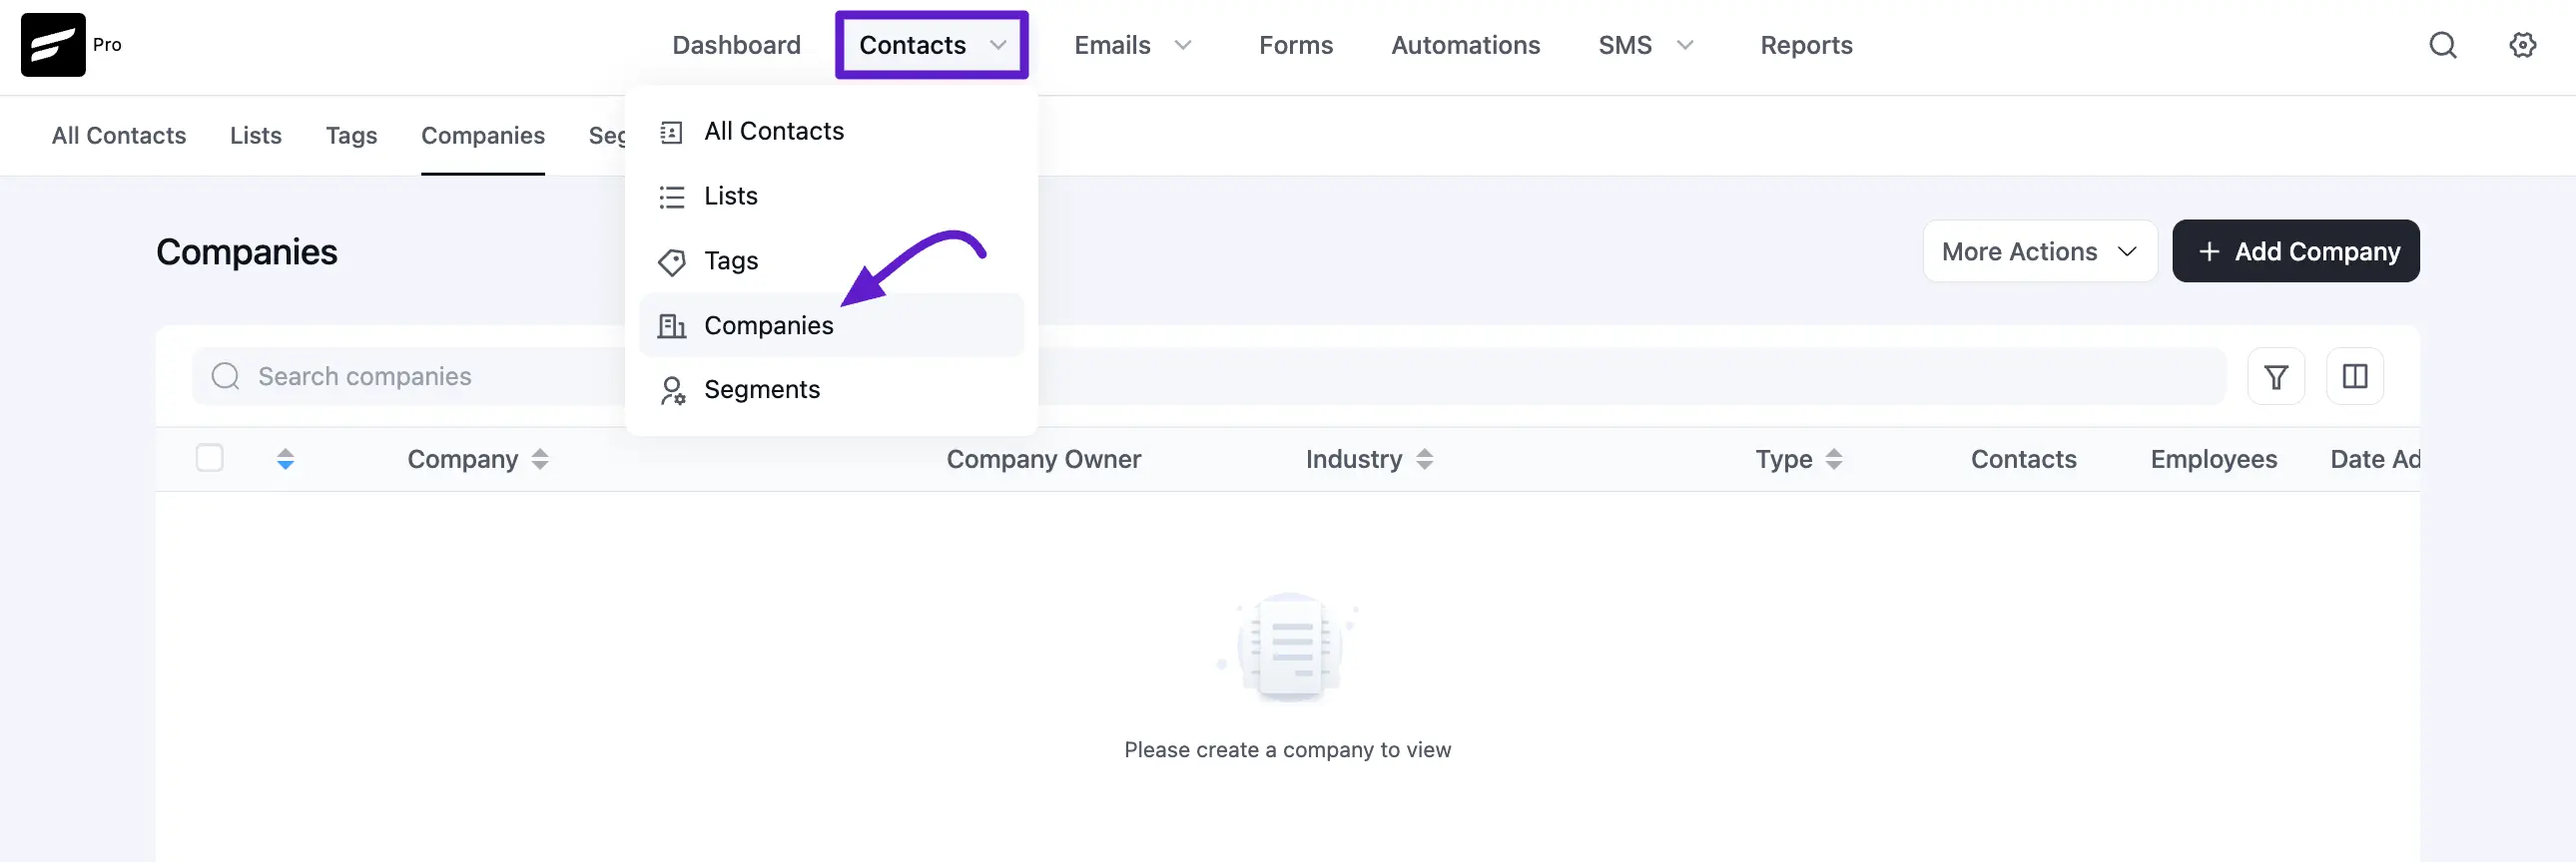
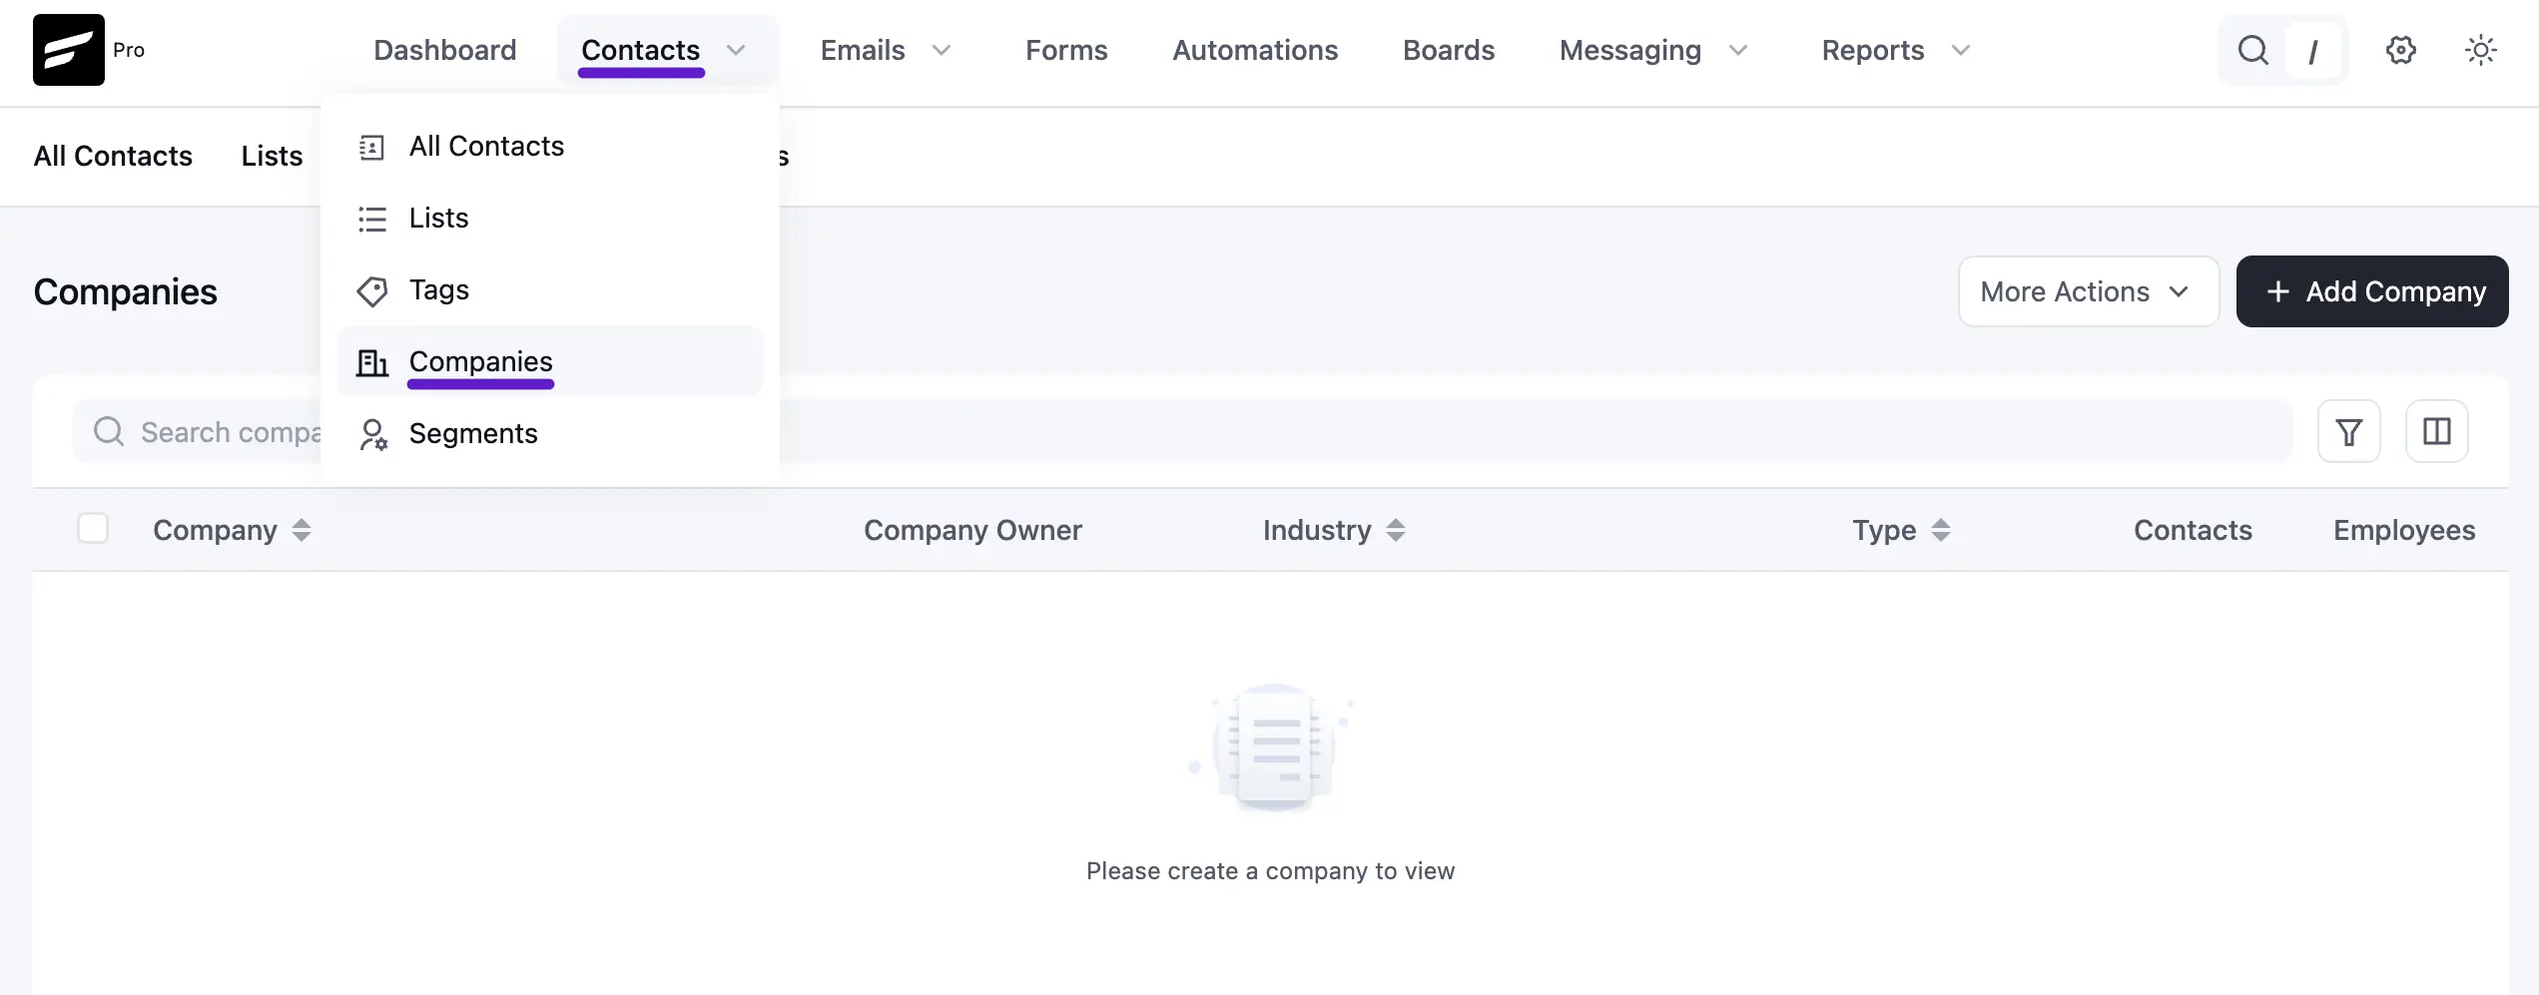
added image and description update of Company Module doc

diff --git a/docs/grow-your-audience/company-module.md b/docs/grow-your-audience/company-module.md
@@ -11,22 +11,25 @@ In FluentCRM, the Company Module feature organizes contacts to one or more compa
 
 You can assign one or more contacts to a company record. FluentCRM can also automatically retrieve a company logo by using just its website URL.
 
-### Enable Company Module 
+### Enable Company Module
 
-First, go to **Settings** from the top right corner of the **FluentCRM Navbar**, click the **Advanced Feature** settings page, scroll down and you will find the **Company Module** option.
+Go to **Addons** in the FluentCRM sidebar to open the **Advanced Features** page. Find **Company Module** and click its **Settings** button.
 
-Here, you will find two settings options. These are
+The **Company Module Settings** popup has two options:
 
--   **Enable Company Module for Contacts:** Enable this to unlock the **Company Module** feature inside the **Contacts** section dropdown of the **FluentCRM Navbar**. 
--   **Try to get company logo automatically from the given website URL**: Enable this to fetch the company logo automatically by providing only the website URL of the company.
+-   **Enable Company Module for Contacts:** Turn this on to add **Companies** to the **Contacts** dropdown in the FluentCRM navbar.
+-   **Try to get company logo automatically from the given website url:** Turn this on and FluentCRM tries to fetch the company logo from the website URL you enter.
+
+After that, click the **Save Settings** button to apply your changes.
 
 ![enabling company module from advanced feature config](/grow-your-audience/company-module/Enabling-Company-Module-from-Advanced-feature-config-scaled.webp)
 
 ## Adding Companies
 
-After enabling the Company Module feature, go to **Companies** from the **Contacts** section dropdown.
+After you enable the Company Module, click **Contacts** in the FluentCRM navbar and select **Companies** from the dropdown. The **Companies** page lists each company with its **Company Owner**, **Industry**, **Type**, **Contacts**, and **Employees**.
 
-> Remember, you will not get this "**Companies**" option inside the **Contacts** section if you do not activate/enable the company module.
+>[!Note]
+> The **Companies** option appears in the **Contacts** dropdown only after you enable the Company Module.
 
 ![companies option under contacts section](/grow-your-audience/company-module/Companies-option-under-Contacts-section-scaled.webp)
 
@@ -65,6 +68,7 @@ Here, you can **Add Existing contacts** or **Create new** ones for the company f
 
 You can also add notes and activities for the company using the “**Notes & Activities**” section. 
 
+> [!Note]
 > The data for the **Notes & Activities under Companies** are **independent from** the **Individual Contacts' Notes & Activities** data.
 
 Click on the **Add Notes** button to add notes for the company and a pop-up will appear. 
@@ -75,13 +79,12 @@ Here, you can add notes for the company from the pop-up window.
 
 ![create note popup page](/grow-your-audience/company-module/Create-note-popup-page-scaled.webp)
 
-### **Custom Fields**
+### Custom Fields
 
 FluentCRM doesn’t have any designated field for adding additional data to your company details. But you can do it easily with the **Custom Field** feature of FluentCRM.
 
+> [!Note]
 > The data for the **Custom Fields under** **Companies** are **independent from** the **Individual Contacts’ Custom Fields** data.
-
-**To learn how to add Custom Fields in Companies, follow the steps with screenshots below –**
 
 From the left sidebar, click the **Add Custom Fields** button, and a pop-up page will appear on the right-hand side.
 
